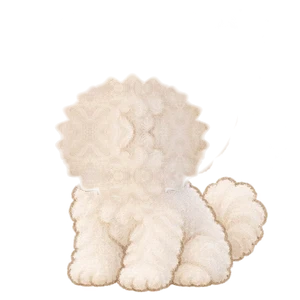
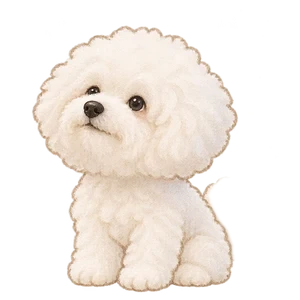
おやつキャッチ: ワンコの首のばしを、横の調整前の状態（5d83c47）に戻す
Claude-Session: https://claude.ai/code/session_01C8PtLD8WphwBjzXta7cLWT

Changed region(s): [[0.09, 0.09, 0.81, 0.63], [0.69, 0.57, 0.9, 0.87]]

diff --git a/lab/oyatsu/index.html b/lab/oyatsu/index.html
@@ -67,9 +67,9 @@ function srcPix(key,im){if(SRC[key])return SRC[key];const c=document.createEleme
 const WGT={};
 function weightMap(k){if(WGT[k])return WGT[k];const P=HEADE[k],NK=NECK[k],HB=HEADX[k],YF=285,BS=.3,wx=new Float32Array(90000),wy=new Float32Array(90000);
  for(let y=0;y<300;y++)for(let x0=0;x0<300;x0++){const q=Math.hypot((x0-P[0])/P[2],(y-P[1])/P[3]),dd=(q-1)*Math.min(P[2],P[3]);
-  let h=q<=1?1:Math.max(0,1-dd/48);h=h*h*(3-2*h);let v=q<=1?1:Math.max(0,1-dd/42);v=v*v*(3-2*v);
+  let h=q<=1?1:Math.max(0,1-dd/75);h=h*h*(3-2*h);let v=q<=1?1:Math.max(0,1-dd/42);v=v*v*(3-2*v);
   const t=x0<=HB[0]?0:x0>=HB[1]?1:(x0-HB[0])/(HB[1]-HB[0]),fr=1-t*t*(3-2*t),b=y<NK[1]?BS:BS*Math.max(0,(YF-y)/(YF-NK[1]));
-  wx[y*300+x0]=h;wy[y*300+x0]=v}
+  wx[y*300+x0]=h+(1-h)*b*fr;wy[y*300+x0]=v}
  return WGT[k]={wx,wy}}
 function warpSprite(src,W,hx,hy,tl,wag){
  const WX=W.wx,WY=W.wy,o=[0,0],off=(sx,sy)=>{const ix=sx<0?0:sx>299?299:sx|0,iy=sy<0?0:sy>299?299:sy|0,n=iy*300+ix;
@@ -78,12 +78,7 @@ function warpSprite(src,W,hx,hy,tl,wag){
    off(dx,dy);let sx=dx-o[0],sy=dy-o[1];off(sx,sy);sx=Math.round(dx-o[0]);sy=Math.round(dy-o[1]);
    wout[row+X]=(sx>=0&&sx<300&&sy>=0&&sy<300)?src[sy*300+sx]:0}}
  wgx.putImageData(wimg,0,0);return wcv}
-
-// 頭だけの絵・頭の下をうめた体の絵（ポーズごと）
-const LAY={},ZW={wx:new Float32Array(90000),wy:new Float32Array(90000)};
-for(const k of ['moon','coron'])for(let i=0;i<5;i++){const h=new Image(),b=new Image();h.src='img/'+k+'_'+i+'_head.webp';b.src='img/'+k+'_'+i+'_body.webp';LAY[k+'_'+i]={head:h,body:b}}
-{const h=new Image(),b=new Image();h.src='img/moon_0b_head.webp';b.src='img/moon_0b_body.webp';LAY['moon_0b']={head:h,body:b}}
-const imOK=im=>im.complete&&im.naturalWidth;const sprOK=k=>SPR[k]&&SPR[k].every(imOK)&&[0,1,2,3,4].every(i=>imOK(LAY[k+'_'+i].head)&&imOK(LAY[k+'_'+i].body))&&(k!=='moon'||(mtOK()&&imOK(LAY.moon_0b.head)&&imOK(LAY.moon_0b.body)));let mood='',fastT=-1e9,catchP=null;
+const sprOK=k=>SPR[k]&&SPR[k].every(im=>im.complete&&im.naturalWidth);let mood='',fastT=-1e9,catchP=null;
 // スキン（ゲームセンター共通の mc_vt）
 const SKINS=[['natural','ナチュラル'],['retro','レトロ'],['neon','ネオン']];
 let skin=(()=>{const ok=v=>SKINS.some(s=>s[0]===v);const h=location.hash.slice(1);if(ok(h))return h;try{const v=localStorage.getItem('mc_vt');if(ok(v))return v;const p=JSON.parse(localStorage.getItem('mcgc_p')||'{}');if(ok(p.theme))return p.theme}catch(e){}return'natural'})();
@@ -249,7 +244,7 @@ function drawDog(d,near,caught){const k=DOG[d.k],g=dogGeo(d),moon=d.k==='moon';l
     mx0=d.x-d.f*lmx,my0=base-S+mo[1]*S/300;
    if(caught&&catchP){const e=now-caughtT;tg=catchP;wt=e<70?1:Math.max(0,1-(e-70)/220)}
    else if(near){const ds=Math.hypot(near.x-mx0,near.y-my0);tg=near;wt=Math.max(0,Math.min(1,(62-ds)/34))}
-   if(tg&&wt>0){hx+=Math.max(-8,Math.min(8,-d.f*(tg.x-mx0)))*wt;hy+=Math.max(-8,Math.min(8,tg.y-my0))*wt}}
+   if(tg&&wt>0){hx+=Math.max(-12,Math.min(12,-d.f*(tg.x-mx0)))*wt;hy+=Math.max(-8,Math.min(8,tg.y-my0))*wt}}
   // 動かす量＝頭の移動量 ×（たて方向の重み）×（よこ方向の重み）。頭からはなれた背中・しっぽ側は動かさない
   const NK=NECK[d.k],HB=HEADX[d.k],YF=285,BS=.3,
    Vw=sy=>sy<=NK[0]?1:sy<NK[1]?1+(BS-1)*(sy-NK[0])/(NK[1]-NK[0]):BS*Math.max(0,(YF-sy)/(YF-NK[1])),
@@ -257,14 +252,9 @@ function drawDog(d,near,caught){const k=DOG[d.k],g=dogGeo(d),moon=d.k==='moon';l
   x.save();x.translate(d.x,d.y-jy+S*20/760);if(d.f>0)x.scale(-1,1);
   const mtail=d.k==='moon'&&fr===0&&mtOK(),im=mtail?MT.body:SPR[d.k][fr],tl=fr===0?TAIL[d.k]:null,K=300/S,wag=tl?tl.A*Math.sin(T*9):0;
   // 1ピクセルずつずらして描く（つなぎ目が出ない）
-  // 体の絵はそのまま（背中の形は変えない）、頭だけの絵を上に重ねて動かす
-  const LK=d.k+'_'+fr+(mtail?'b':''),L=LAY[LK];
-  if(L&&L.head.complete&&L.head.naturalWidth&&L.body.complete&&L.body.naturalWidth){
-   if(tl){const wc=warpSprite(srcPix(LK+'B',L.body),ZW,0,0,tl,wag);x.drawImage(wc,-S/2-WPAD/K,-S-WPAD/K,WOUT/K,WOUT/K)}else x.drawImage(L.body,-S/2,-S,S,S);
-   if(mtail){const [px,py]=MT.PIV;x.save();x.translate(-S/2+px*S/300,-S+py*S/300);x.rotate(.09*Math.sin(T*9));x.drawImage(MT.tail,-px*S/300,-py*S/300,S,S);x.restore()}
-   x.drawImage(L.head,-S/2+hx,-S+hy,S,S)}
-  else{const WM=weightMap(d.k),wc=warpSprite(srcPix(LK,im),WM,hx*K,hy*K,tl,wag);x.drawImage(wc,-S/2-WPAD/K,-S-WPAD/K,WOUT/K,WOUT/K);
-   if(mtail){const [px,py]=MT.PIV,n=py*300+px;x.save();x.translate(-S/2+px*S/300+hx*WM.wx[n],-S+py*S/300+hy*WM.wy[n]);x.rotate(.09*Math.sin(T*9));x.drawImage(MT.tail,-px*S/300,-py*S/300,S,S);x.restore()}}
+  const WM=weightMap(d.k),wc=warpSprite(srcPix(d.k+'_'+fr+(mtail?'b':''),im),WM,hx*K,hy*K,tl,wag);
+  x.drawImage(wc,-S/2-WPAD/K,-S-WPAD/K,WOUT/K,WOUT/K);
+  if(mtail){const [px,py]=MT.PIV,n=py*300+px;x.save();x.translate(-S/2+px*S/300+hx*WM.wx[n],-S+py*S/300+hy*WM.wy[n]);x.rotate(.09*Math.sin(T*9));x.drawImage(MT.tail,-px*S/300,-py*S/300,S,S);x.restore()}
   x.restore();return}
  const col=moon?'#fbfbf8':'#e0a66b',dark=moon?'#e3ded3':'#b8763d';
  // からだ
